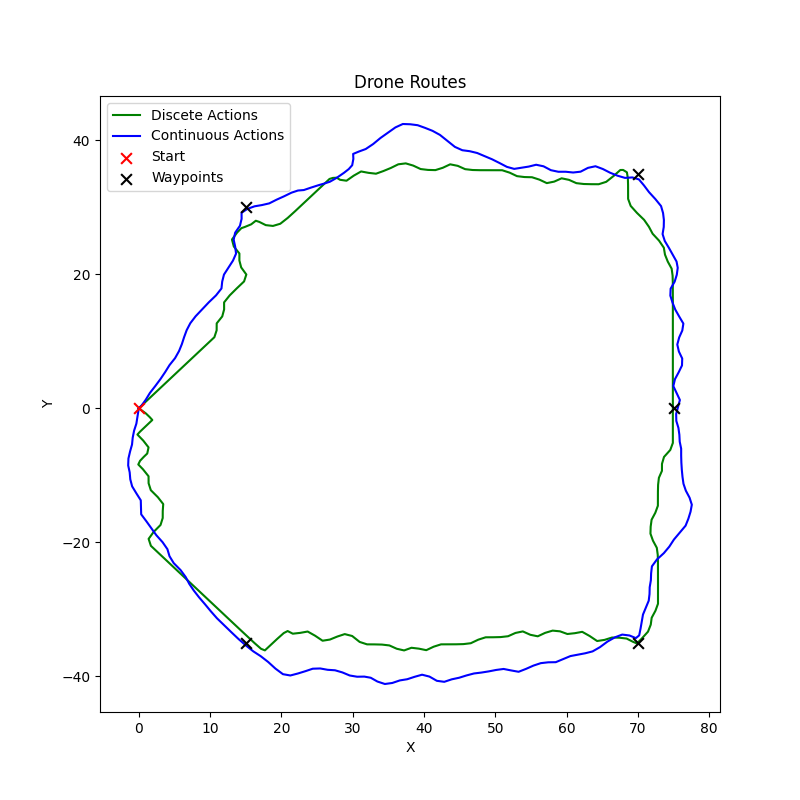
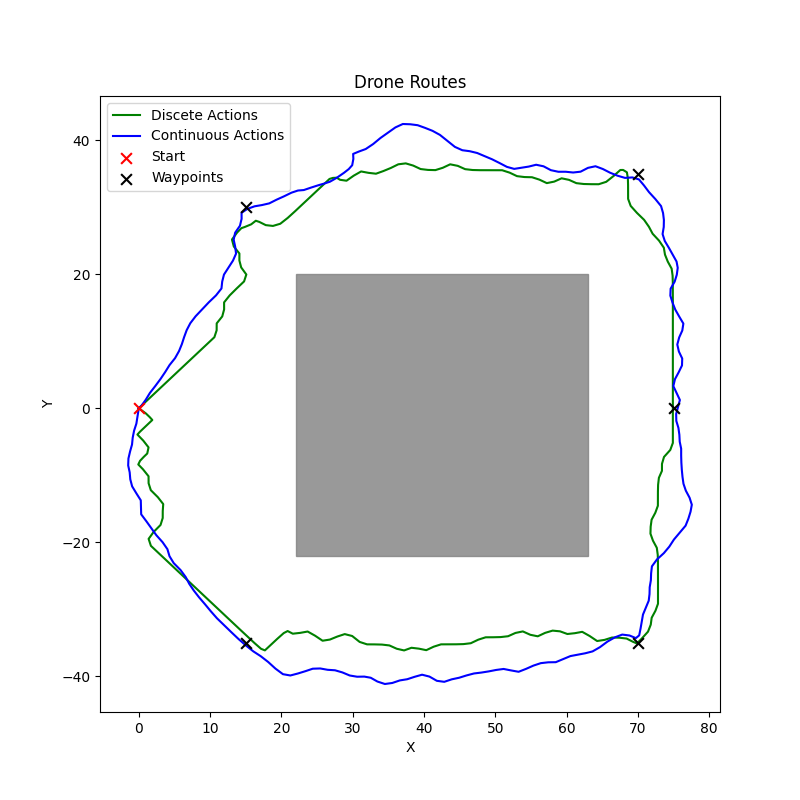
single uav experiment

Changed region(s): [[0.3438, 0.3438, 0.75, 0.7188]]

diff --git a/UAVNavigation/single_uav_experiment.py b/UAVNavigation/single_uav_experiment.py
@@ -20,12 +20,12 @@ os.environ["KMP_DUPLICATE_LIB_OK"]="TRUE"
 waypoint_variants = dict()
 
 waypoint_variants["single"] = [
-    np.array([0.0, 0.0, 5.0], dtype=np.float32),
+    np.array([0.0, 0.0, 0.0], dtype=np.float32),
     np.array([-10.0, -100.0, 5.0], dtype=np.float32)
 ]
 
 waypoint_variants["multiple"] = [
-    np.array([0.0, 0.0, 5.0], dtype=np.float32),
+    np.array([0.0, 0.0, 0.0], dtype=np.float32),
     np.array([15.0, 30.0, 5.0], dtype=np.float32),
     np.array([70.0, 35.0, 5.0], dtype=np.float32),
     np.array([75.0, 0.0, 5.0], dtype=np.float32),
@@ -34,7 +34,7 @@ waypoint_variants["multiple"] = [
 ]
 
 waypoint_variants["obstacle"] = [
-    np.array([0.0, 0.0, 5.0], dtype=np.float32),
+    np.array([0.0, 0.0, 1.8], dtype=np.float32),
     np.array([18.0, 0.0, 5.0], dtype=np.float32),
     np.array([18.0, 0.0, 18.0], dtype=np.float32),
     np.array([65.0, -10.0, 18.0], dtype=np.float32),
@@ -53,6 +53,7 @@ parser.add_argument("-w", "--waypoint_type", type=str, help="the waypoint type t
 parser.add_argument("-v", "--waypoint_variant", type=str, help="the waypoint type to use for the environment",
                     choices=["single", "multiple", "obstacle"], default="single")
 parser.add_argument("-m", "--max-steps", type=int, help="the maximum number of steps to run the environment for", default=0)
+parser.add_argument("-p", "--plot", help="replot the results", action="store_true")
 
 args = parser.parse_args()
 
@@ -69,6 +70,7 @@ if args.max_steps == 0:
     max_steps = None
 else:
     max_steps = args.max_steps
+replot = args.plot
 
 end_at_start = True if waypoint_variant == "multiple" else False
 
@@ -78,74 +80,95 @@ env_types = ["disc", "cont"]
 
 shortest_routes = dict()
 
-for env_type in env_types:
-    print(f"Evaluating {env_type} environment...")
-    env_id = f"drone-env-{env_type}-{env_var}"
-    # env = gym.make(env_id, env_config=env_config)
+if replot:
+    for env_type in env_types:
+        route_obj_filename = f"routes/{algorithm}/{waypoint_variant}/{env_type}_{env_var}_shortest_route.pkl"
+        if os.path.exists(route_obj_filename):
+            shortest_route = load_obj_file(route_obj_filename)
+            shortest_routes[env_type] = shortest_route
 
-    print("Using environment: {}".format(env_id))
-
-
-    drone_env_config = {
-        "waypoints": waypoint_variants[waypoint_variant][1:],
-        "max_steps": max_steps,
-        "drone_name": "Drone1",
-        "verbose": True,
-        "momentum": False,
-        "end_at_start": end_at_start
-    }
-
-    chkpt_path = f"training/{algorithm}/{env_type}/{env_var}/{waypoint_type}/{chkpt_root}"
-    model = Algorithm.from_checkpoint(chkpt_path)
-    eval_rewards, eval_lengths, success_rate, crashes, timeouts, route_list, time_list = evaluate_algorithm(model, env_id, epochs=total_iters, env_config=drone_env_config, render_mode=render_mode)
-
-    print(f"Best reward over {total_iters} iterations: {max(eval_rewards)}")
-    print(f"Average reward over {total_iters} iterations: {sum(eval_rewards) / total_iters}")
-    print(f"Average episode length over {total_iters} iterations: {sum(eval_lengths) / total_iters}")
-    print(f"Success rate over {total_iters} iterations: {success_rate}")
-    print(f"Number of crashes: {crashes}/{total_iters}")
-    print(f"Number of timeouts: {timeouts}/{total_iters}")
-
-    # Check shortest route
-    if len(route_list) == 0:
-        print("No routes found")
-        shortest_routes[env_type] = []
-
-    route_lengths = []
-    for route in route_list:
-        route_lengths.append(sum([np.linalg.norm(route[i] - route[i+1]) for i in range(len(route) - 1)]))
-
-    print(f"Shortest route length: {min(route_lengths)}")
-    shortest_index = route_lengths.index(min(route_lengths))
-    shortest_length = route_lengths[shortest_index]
-    shortest_route = route_list[shortest_index]
-    shortest_route_time = time_list[shortest_index]
-    
-    if success_rate > 0.0:
-        if waypoint_variant == "multiple":
-            shortest_route.append(waypoint_variants[waypoint_variant][0])
+            results_table_path = os.path.join(os.getcwd(), "single_uav_results_table.csv")
+            xy_plane_distance = sum([np.linalg.norm(shortest_route[i][:2] - shortest_route[i+1][:2]) for i in range(len(shortest_route) - 1)])
+            xyz_distance = sum([np.linalg.norm(shortest_route[i] - shortest_route[i+1]) for i in range(len(shortest_route) - 1)])
+            print(f"XY Plane Distance {env_type}: ", xy_plane_distance)
+            print(f"XYZ Plane Distance {env_type}: ", xyz_distance)
+            
+            z_list = np.array(shortest_route)[:, 2]
+            max_z = np.max(z_list)
+            min_z = np.min(z_list)
+            print("Z Elevation: ", (max_z - min_z))
         else:
-            shortest_route.append(waypoint_variants[waypoint_variant][-1])
+            raise FileNotFoundError(f"Route file {route_obj_filename} not found.")
+else:
+    for env_type in env_types:
+        print(f"Evaluating {env_type} environment...")
+        env_id = f"drone-env-{env_type}-{env_var}"
+        # env = gym.make(env_id, env_config=env_config)
 
-    shortest_routes[env_type] = shortest_route
-    
-    route_obj_filename = f"routes/{algorithm}/{waypoint_variant}/{env_type}_{env_var}_shortest_route.pkl"
-    save_obj_file(route_obj_filename, shortest_routes[env_type])
+        print("Using environment: {}".format(env_id))
 
-    results_table_path = os.path.join(os.getcwd(), "single_uav_results_table.csv")
-    update_single_uav_table(results_table_path, waypoint_variant, env_type, algorithm, shortest_route, shortest_length, shortest_route_time, success_rate)
+
+        drone_env_config = {
+            "waypoints": waypoint_variants[waypoint_variant][1:],
+            "max_steps": max_steps,
+            "drone_name": "Drone1",
+            "verbose": True,
+            "momentum": False,
+            "end_at_start": end_at_start
+        }
+
+        chkpt_path = f"training/{algorithm}/{env_type}/{env_var}/{waypoint_type}/{chkpt_root}"
+        model = Algorithm.from_checkpoint(chkpt_path)
+        eval_rewards, eval_lengths, success_rate, crashes, timeouts, route_list, time_list = evaluate_algorithm(model, env_id, epochs=total_iters, env_config=drone_env_config, render_mode=render_mode)
+
+        print(f"Best reward over {total_iters} iterations: {max(eval_rewards)}")
+        print(f"Average reward over {total_iters} iterations: {sum(eval_rewards) / total_iters}")
+        print(f"Average episode length over {total_iters} iterations: {sum(eval_lengths) / total_iters}")
+        print(f"Success rate over {total_iters} iterations: {success_rate}")
+        print(f"Number of crashes: {crashes}/{total_iters}")
+        print(f"Number of timeouts: {timeouts}/{total_iters}")
+
+        # Check shortest route
+        if len(route_list) == 0:
+            print("No routes found")
+            shortest_routes[env_type] = []
+
+        route_lengths = []
+        for route in route_list:
+            route_lengths.append(sum([np.linalg.norm(route[i] - route[i+1]) for i in range(len(route) - 1)]))
+
+        print(f"Shortest route length: {min(route_lengths)}")
+        shortest_index = route_lengths.index(min(route_lengths))
+        shortest_length = route_lengths[shortest_index]
+        shortest_route = route_list[shortest_index]
+        shortest_route_time = time_list[shortest_index]
+        
+        if success_rate > 0.0:
+            if waypoint_variant == "multiple":
+                shortest_route.append(waypoint_variants[waypoint_variant][0])
+            else:
+                shortest_route.append(waypoint_variants[waypoint_variant][-1])
+
+        shortest_routes[env_type] = shortest_route
+        
+        route_obj_filename = f"routes/{algorithm}/{waypoint_variant}/{env_type}_{env_var}_shortest_route.pkl"
+        save_obj_file(route_obj_filename, shortest_routes[env_type])
+
+        results_table_path = os.path.join(os.getcwd(), "single_uav_results_table.csv")
+        update_single_uav_table(results_table_path, waypoint_variant, env_type, algorithm, shortest_route, shortest_length, shortest_route_time, success_rate)
 
 route_plot_filename = f"routes/{algorithm}/{waypoint_variant}/{env_var}_shortest_route_top.png"
 route_plot_filename_z = f"routes/{algorithm}/{waypoint_variant}/{env_var}_shortest_route_side.png"
 
+obstacles = [
+    np.array([22.0, -22.0, 0.0, 63.0, 20.0, 15.0], dtype=np.float32),
+    # np.array([50.0, 0.0, 5.0, 0.0, 0.0, 5.0], dtype=np.float32),
+]
 if waypoint_variant == "obstacle":
-    obstacles = [
-        np.array([22.0, -22.0, 0.0, 63.0, 20.0, 15.0], dtype=np.float32),
-        # np.array([50.0, 0.0, 5.0, 0.0, 0.0, 5.0], dtype=np.float32),
-    ]
     plot_route_exp([waypoint_variants[waypoint_variant][0] ,waypoint_variants[waypoint_variant][-1]], shortest_routes, obstacles=obstacles, filename=route_plot_filename)
     plot_route_exp_z([waypoint_variants[waypoint_variant][0] ,waypoint_variants[waypoint_variant][-1]], shortest_routes, obstacles=obstacles, filename=route_plot_filename_z)
-    
+elif waypoint_variant == "multiple":
+    plot_route_exp(waypoint_variants[waypoint_variant], shortest_routes, obstacles=obstacles, filename=route_plot_filename)
 else:
     plot_route_exp(waypoint_variants[waypoint_variant], shortest_routes, filename=route_plot_filename)
 

diff --git a/UAVNavigation/evaluate_drone_algo_rllib.py b/UAVNavigation/evaluate_drone_algo_rllib.py
@@ -55,11 +55,11 @@ print("Using environment: {}".format(env_id))
 
 chkpt_path = f"training/{algorithm}/{env_type}/{env_var}/{waypoint_str}/{chkpt_root}"
 model = Algorithm.from_checkpoint(chkpt_path)
-eval_rewards, eval_lengths, success_rate, crashes, timeouts, route_list = evaluate_algorithm(model, env_id, epochs=total_iters, env_config=env_config, render_mode=render_mode)
+eval_rewards, eval_lengths, success_rate, crashes, timeouts, route_list, time_list = evaluate_algorithm(model, env_id, epochs=total_iters, env_config=env_config, render_mode=render_mode)
 
 # model_root = f"models/{algorithm}/{env_type}/{env_var}/{waypoint_str}/model/model.pt"
 # model = torch.load(model_root)
-# eval_rewards, eval_lengths, success_rate, crashes, timeouts, route_list = evaluate_algorithm_pytorch(model_root, env_id, epochs=total_iters, env_config=env_config, render_mode=render_mode)
+# eval_rewards, eval_lengths, success_rate, crashes, timeouts, route_list, time_list = evaluate_algorithm_pytorch(model_root, env_id, epochs=total_iters, env_config=env_config, render_mode=render_mode)
 
 print(f"Best reward over {total_iters} iterations: {max(eval_rewards)}")
 print(f"Average reward over {total_iters} iterations: {sum(eval_rewards) / total_iters}")

diff --git a/UAVNavigation/utils.py b/UAVNavigation/utils.py
@@ -373,10 +373,12 @@ def update_single_uav_table(results_table_path, waypoint_type, action_type, rl_a
     if os.path.exists(results_table_path):
         results_table = pd.read_csv(results_table_path)
     else:
-        results_table = pd.DataFrame(columns=["Slug", "Waypoint Type", "RL Algorithm", "Action Type", "Success Rate", "Distance", "Elevation", "Time"])
+        results_table = pd.DataFrame(columns=["Slug", "Waypoint Type", "RL Algorithm", "Action Type", "Success Rate", "2D Distance", "Distance", "Elevation", "Time"])
+
+    
+    xy_plane_distance = sum([np.linalg.norm(route[i][:2] - route[i+1][:2]) for i in range(len(route) - 1)])
 
     z_list = np.array(route)[:, 2]
-
     max_z = np.max(z_list)
     min_z = np.min(z_list)
 
@@ -388,6 +390,7 @@ def update_single_uav_table(results_table_path, waypoint_type, action_type, rl_a
         "RL Algorithm": rl_algo.upper(),
         "Action Type": action_type,
         "Success Rate": success_rate,
+        "2D Distance": xy_plane_distance,
         "Distance": dist,
         "Elevation": (max_z - min_z),
         "Time": time

diff --git a/UAVNavigation/restore_drone_algo_rllib.py b/UAVNavigation/restore_drone_algo_rllib.py
@@ -178,7 +178,7 @@ while i < total_iters:
         
         # Evaluate the algorithm
         print("\nEvaluating Algorithm...")
-        eval_rewards, eval_lengths, success_rate, crashes, timeouts, route_list = evaluate_algorithm(restored_algo, select_env, epochs=5, env_config=env_config, render_mode=render_mode)
+        eval_rewards, eval_lengths, success_rate, crashes, timeouts, route_list, time_list = evaluate_algorithm(restored_algo, select_env, epochs=5, env_config=env_config, render_mode=render_mode)
         
         eval_episode_count += len(eval_rewards)
         

diff --git a/UAVNavigation/train_drone_algo_rllib.py b/UAVNavigation/train_drone_algo_rllib.py
@@ -220,7 +220,7 @@ while i < total_iters:
         
         # Evaluate the algorithm
         print("\nEvaluating Algorithm...")
-        eval_rewards, eval_lengths, success_rate, crashes, timeouts, route_list = evaluate_algorithm(algo, select_env, epochs=5, env_config=env_config, render_mode=render_mode)
+        eval_rewards, eval_lengths, success_rate, crashes, timeouts, route_list, time_list = evaluate_algorithm(algo, select_env, epochs=5, env_config=env_config, render_mode=render_mode)
         
         eval_episode_count += len(eval_rewards)
         
